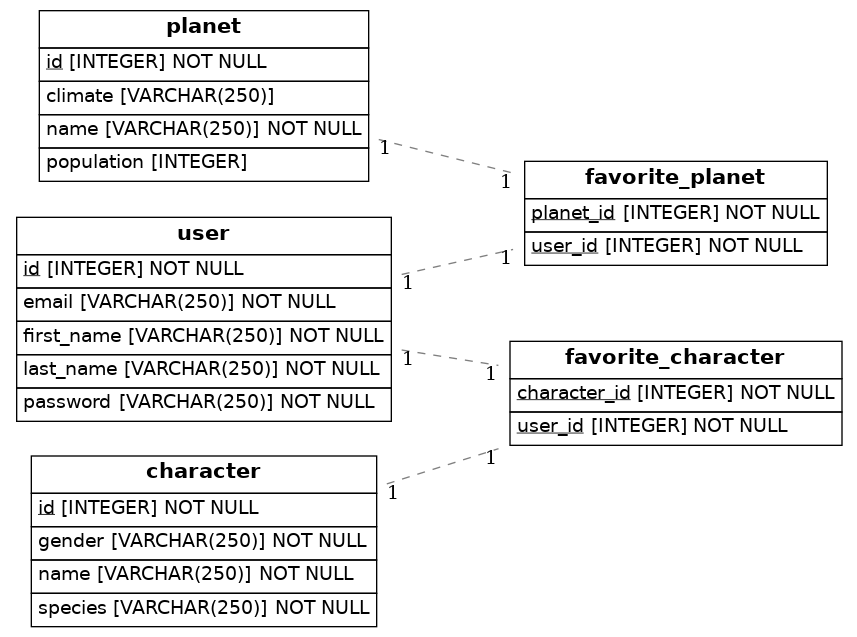
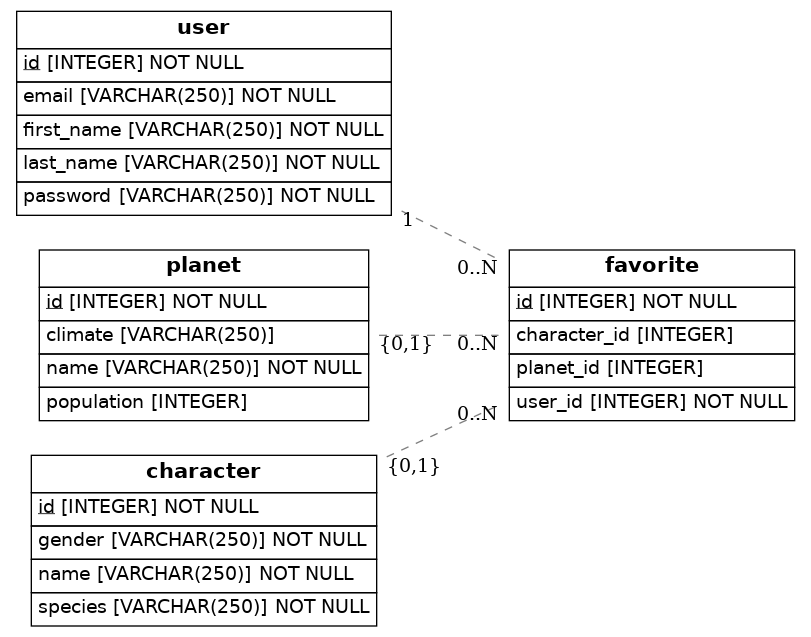
correcciónRavoritos

Changed region(s): [[0.0, 0.0, 0.9864, 0.9843], [0.4932, 0.3281, 0.524, 0.3579], [0.4624, 0.4176, 0.4932, 0.4474]]

diff --git a/src/models.py b/src/models.py
@@ -8,17 +8,6 @@ from eralchemy2 import render_er
 
 Base = declarative_base()
 
-#relación muchos-a-muchos entre usuario y planetas favoritos
-favorite_planet = Table('favorite_planet', Base.metadata,
-    Column('user_id', Integer, ForeignKey('user.id'), primary_key=True),
-    Column('planet_id', Integer, ForeignKey('planet.id'), primary_key=True)
-)
-
-# relación muchos-a-muchos entre usuario y personajes favoritos
-favorite_character = Table('favorite_character', Base.metadata,
-    Column('user_id', Integer, ForeignKey('user.id'), primary_key=True),
-    Column('character_id', Integer, ForeignKey('character.id'), primary_key=True)
-)
 
 class User(Base):
     __tablename__ = 'user'
@@ -30,8 +19,7 @@ class User(Base):
     password = Column(String(250), nullable=False)
     
     # Relación muchos-a-muchos con planetas y personajes
-    favorite_planets = relationship('Planet', secondary=favorite_planet, backref='favorited_by_users')
-    favorite_characters = relationship('Character', secondary=favorite_character, backref='favorited_by_users')
+    favorite = relationship('Favorite', back_populates='user')
 
 class Planet(Base):
     __tablename__ = 'planet'
@@ -41,6 +29,8 @@ class Planet(Base):
     climate = Column(String(250), nullable=True)
     population = Column(Integer, nullable=True)
 
+    favorited_by = relationship('Favorite', back_populates='planet')
+    
 class Character(Base):
     __tablename__ = 'character'
     
@@ -49,8 +39,24 @@ class Character(Base):
     species = Column(String(250), nullable=False)
     gender = Column(String(250), nullable=False)
 
+    favorited_by = relationship('Favorite', back_populates='character')
+
+class Favorite(Base):
+    __tablename__= 'favorite'
+
+    id = Column(Integer, primary_key=True)
+    user_id = Column(Integer, ForeignKey('user.id'), nullable=False)
+    planet_id = Column(Integer, ForeignKey('planet.id'), nullable=True)
+    character_id = Column(Integer, ForeignKey('character.id'), nullable=True)
+    
+    user = relationship('User', back_populates='favorites')
+    planet = relationship('Planet')
+    character = relationship('Character')
+
     def to_dict(self):
         return {}
 
 # Generar el diagrama UML
+print("Generating diagram...")
 render_er(Base, 'diagram.png')
+print("Diagram generated as diagram.png")
